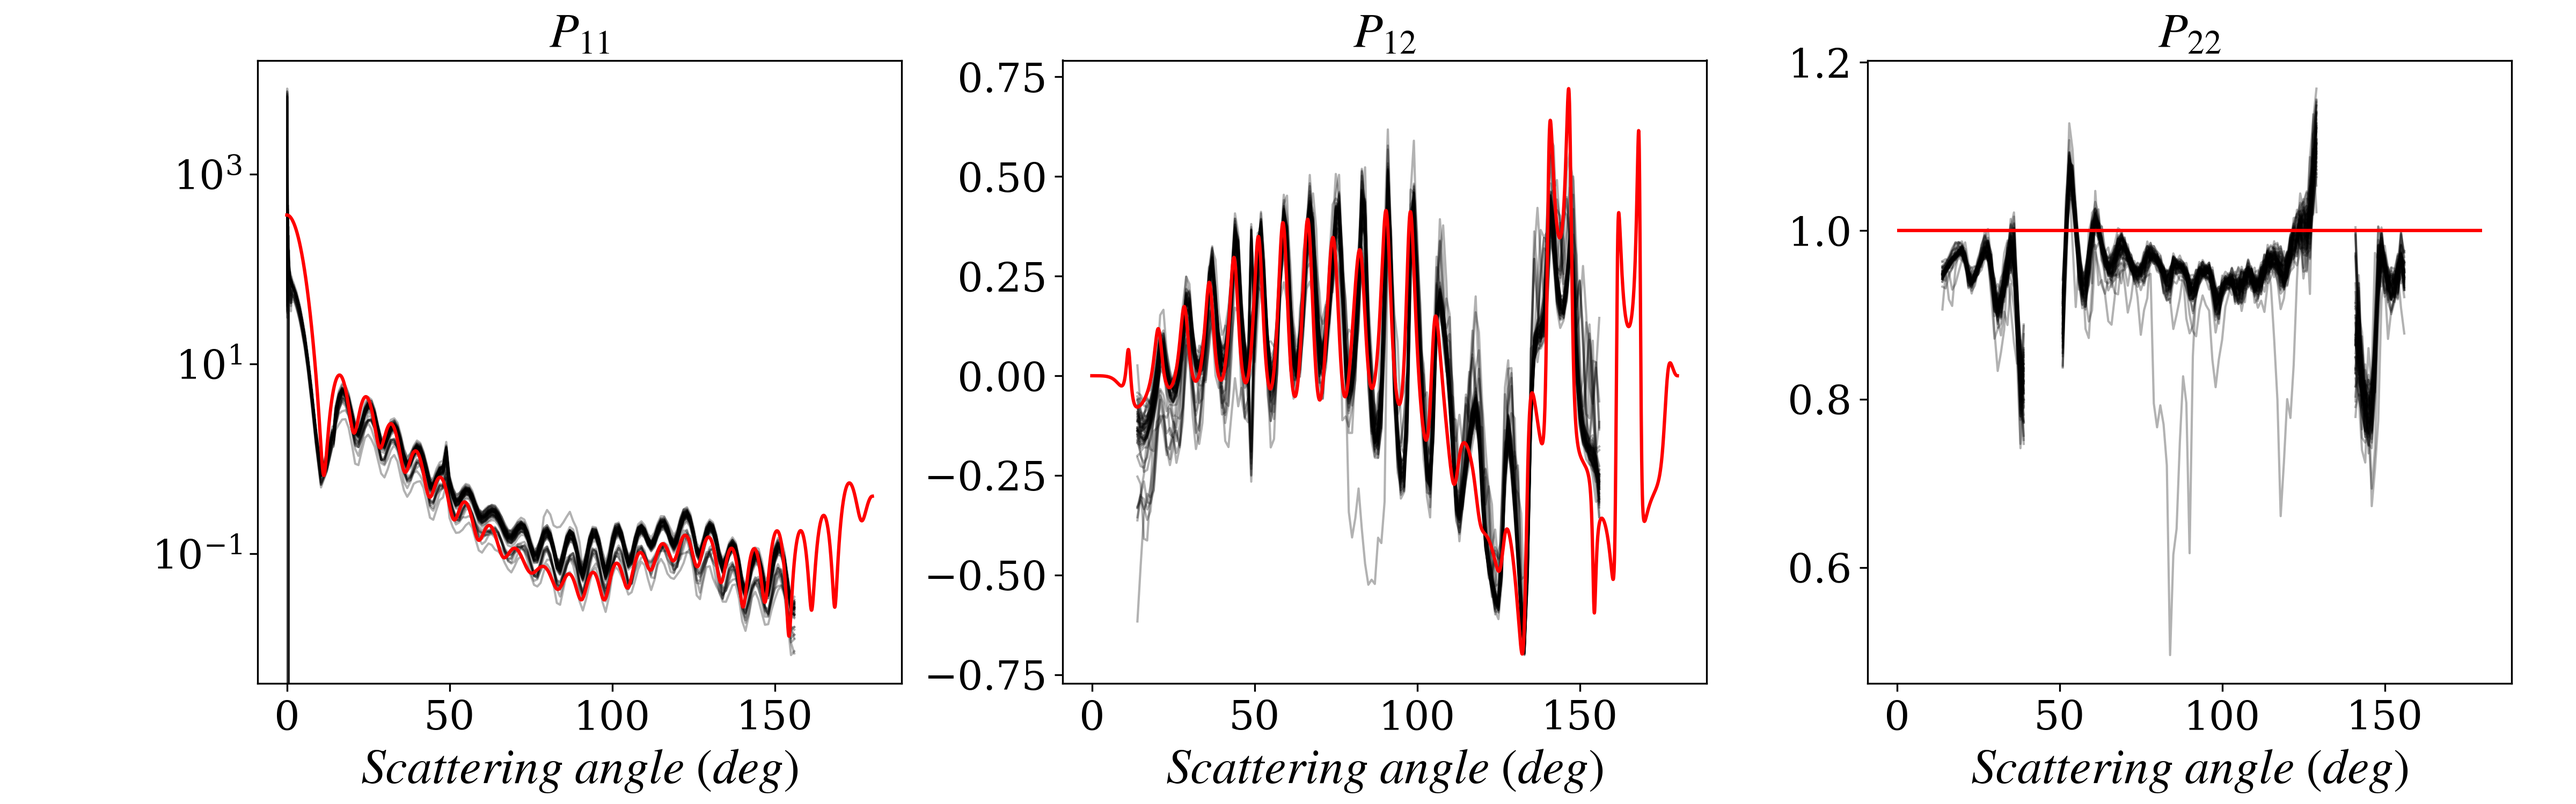
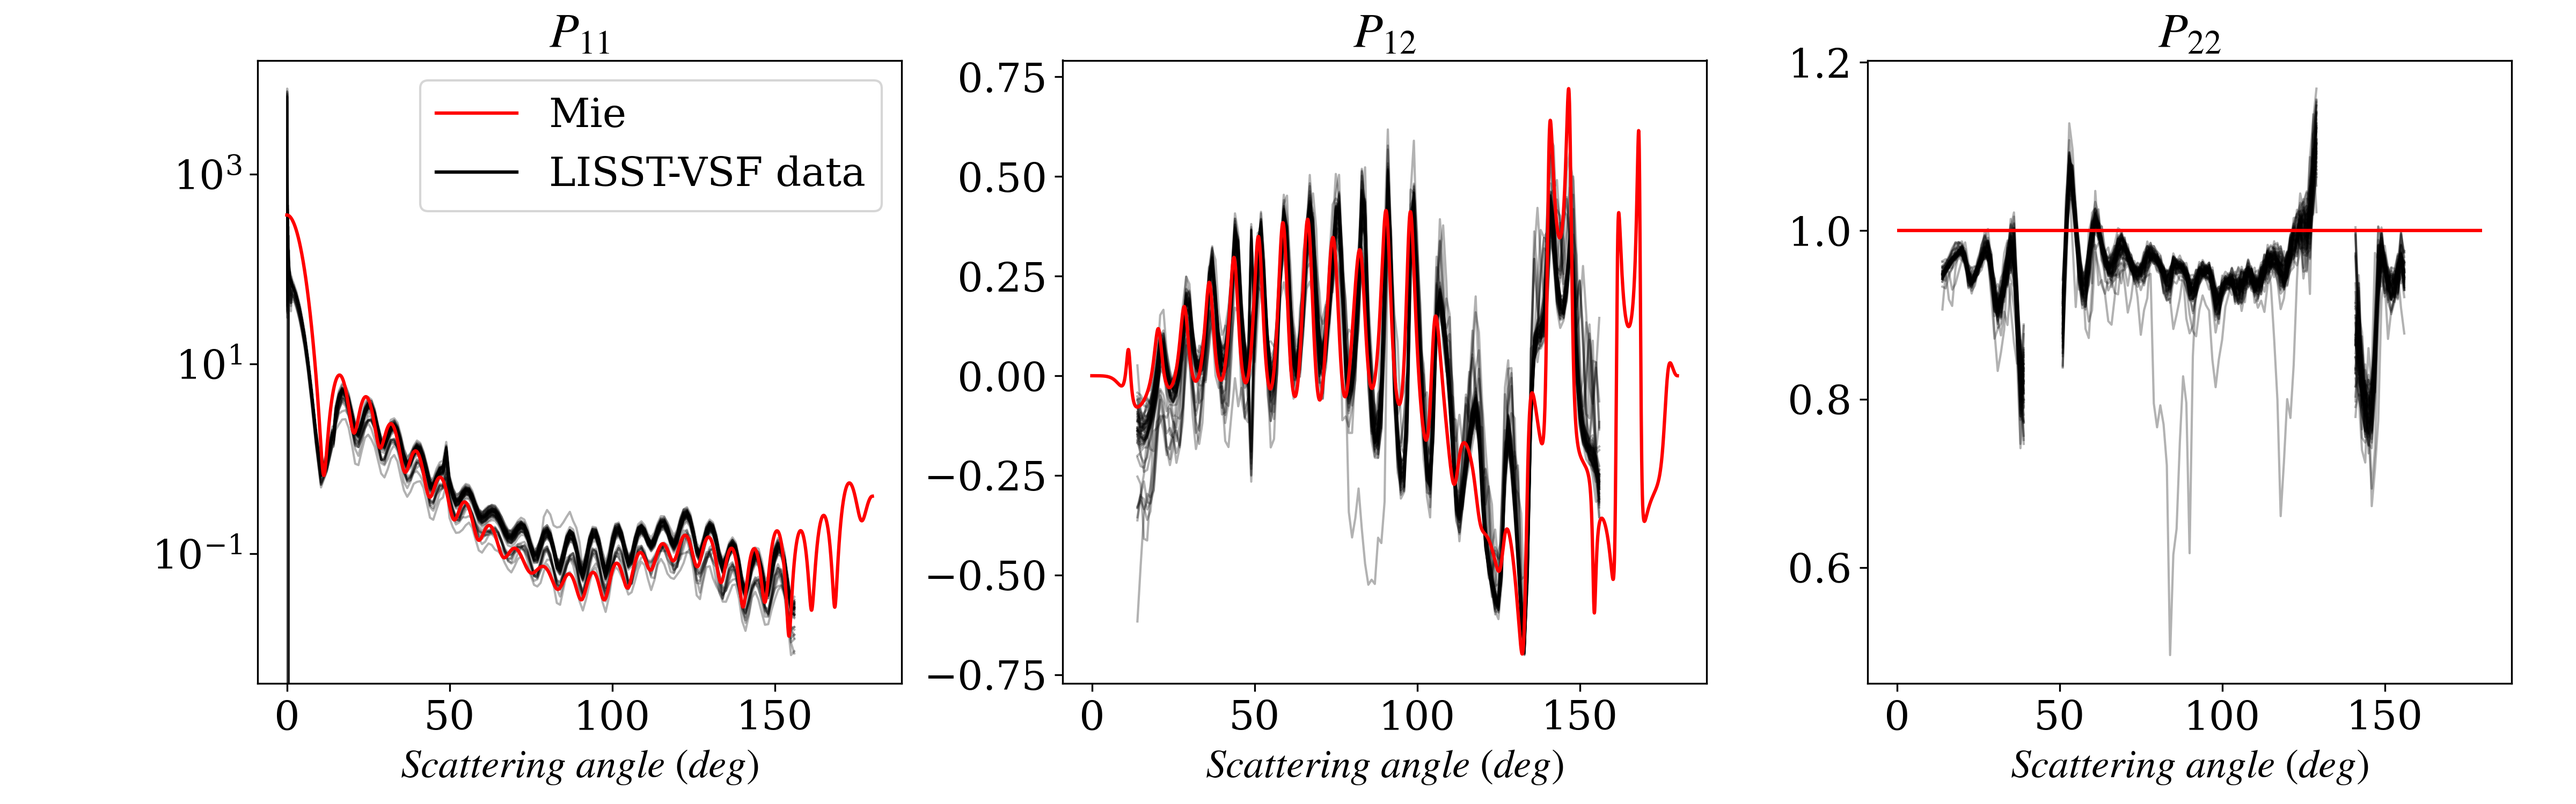
add Mie checking

diff --git a/post_processing/algae_processing.py b/post_processing/algae_processing.py
@@ -1,0 +1,141 @@
+import os
+import numpy as np
+from scipy.interpolate import interp1d
+
+import xarray as xr
+import datetime as dt
+import matplotlib.pyplot as plt
+from matplotlib.lines import Line2D
+
+rc = {"font.family": "serif",
+      "mathtext.fontset": "stix"}
+plt.rcParams.update(rc)
+plt.rcParams["font.serif"] = ["Times New Roman"] + plt.rcParams["font.serif"]
+
+plt.rcParams.update({'font.size': 18, 'axes.labelsize': 18})
+
+from pylisst.process import process
+from pylisst.driver import driver
+from pylisst.calibration import calib
+# personal package
+from mie_perso import psd, mie_multiprocess
+
+calfact = calib()
+
+mie = False
+dir = '/DATA/projet/gernez/hablab/lisst_vsf'
+
+file_ = 'V1101629.VSF'
+name = "PRY_C3"
+filez_ = 'Z1110820.VSF'
+
+#---------------------------------
+# open and process LISST-VSF data
+#---------------------------------
+file = os.path.join(dir, file_)
+filez = os.path.join(dir, filez_)
+scat = driver(file)
+scat.reader()
+zsc = driver(filez)
+zsc.reader()
+p = process(scat, zsc, calfact)
+p.full_process()
+
+
+if mie:
+    #---------------------------------
+    # get Mie simulations
+    #---------------------------------
+    pmie = mie_multiprocess.processor()
+    size_param = psd.size_param
+    psd = psd.psd()
+
+    # -------------------------------------
+    # Generate mueller matrices for a series
+    # of size parameters x = np.pi * diameter / wavelength (unitless)
+    # -------------------------------------
+    wl = 515
+    nMedium = 1.3199+6878/wl**2-1.132e9/wl**4+1.11e14/wl**6
+    wl_medium=wl/nMedium
+    npolystyrene = 1.60
+    m = npolystyrene / nMedium - 0.000j
+
+    theta = np.linspace(0, np.pi, 3600)
+    x = np.logspace(np.log10(1), 2, 1001)
+    ofile = 'data/mueller_mie_' + format(m,'1.3f') + '_t3600.nc'
+
+    if os.path.exists(ofile):
+        mueller = xr.open_dataset(ofile)
+    else:
+        mueller = pmie.ScatMat_mp(m, x, theta)
+        mueller.to_netcdf(ofile)
+
+    # -------------------------------------
+    # convert mueller matrices for a series
+    # of diameters for a given couple of
+    # wavelength (in vacuum) and refractive index (in medium)
+    # for a medium of refractive index nMedium
+    # -------------------------------------
+    theta = mueller.theta
+    ang = theta * 180. / np.pi
+    Ntheta = len(mueller.theta)
+
+    m = complex(mueller.nr, mueller.ni)
+
+
+    m_vacuum = m * nMedium
+    wl_medium = wl / nMedium
+
+    dpnm = mueller.x * wl_medium / np.pi
+    dp = dpnm / 1000
+
+    rn_med = 1.5
+    CV = 0.01
+    sig = rn_med * CV
+    rv_med = psd.rnmed2rvmed(rn_med, sig)
+
+    ndp = psd.lognorm(dp / 2, rn_med=rn_med, sigma=sig)
+    # ndp = modif_power_law(dp / 2, slope=-slope, rmin=rmin, rmax=rmax)
+    # convert to xarray
+    ndp = dp.copy(data=ndp)
+
+    # ndp = psd #[:-1]*np.diff(dp/2)
+    S11, S12, S33, S34 = np.zeros(Ntheta), np.zeros(Ntheta), np.zeros(Ntheta), np.zeros(Ntheta)
+
+    # aSDn = np.pi*((dp/2)**2)*ndp
+    aSDn = ndp
+    S11 = np.trapz(mueller.S11 * aSDn, dp, axis=0)
+    S12 = np.trapz(mueller.S12 * aSDn, dp, axis=0)/S11
+    S33 = np.trapz(mueller.S33 * aSDn, dp, axis=0)/S11
+    S34 = np.trapz(mueller.S34 * aSDn, dp, axis=0)/S11
+    norm = np.trapz(S11 * np.sin(theta), theta) / 2
+
+
+b = p
+
+fig, axs = plt.subplots(ncols=3, nrows=1, figsize=(16, 5), sharex=True)
+fig.subplots_adjust(bottom=0.15, top=0.925, left=0.1, right=0.975,
+                    hspace=0.1, wspace=0.25)
+axs = axs.ravel()
+b.P11.plot(hue='set', color='black', alpha=0.3, lw=1, add_legend=False, ax=axs[0])
+
+b.p12.plot(hue='set', color='black', alpha=0.3, lw=1, add_legend=False, ax=axs[1])
+b.p22.plot(hue='set', color='black', alpha=0.3, lw=1, add_legend=False, ax=axs[2])
+if mie:
+    axs[0].plot(ang,S11/norm,c='red',label='Mie')
+    axs[1].plot(ang,S12,c='red')
+    axs[2].hlines(1,0,180,colors='red')
+    handles, labels = axs[0].get_legend_handles_labels()
+    patch = Line2D([0],[0],color='black', label='LISST-VSF data')
+    handles.append(patch)
+    axs[0].legend(handles=handles, loc='upper right')
+
+axs[0].set_title('$P_{11}$')
+axs[1].set_title('$P_{12}$')
+axs[2].set_title('$P_{22}$')
+for i in range(3):
+    axs[i].set_xlabel('$Scattering\ angle\ (deg)$')
+axs[0].semilogy()
+
+
+plt.savefig(os.path.join("fig", name) + '_mueller_mat_mie_check.png', dpi=300)

diff --git a/beads/beads_processing.py b/beads/beads_processing.py
@@ -5,6 +5,8 @@ from scipy.interpolate import interp1d
 import xarray as xr
 import datetime as dt
 import matplotlib.pyplot as plt
+from matplotlib.lines import Line2D
+
 rc = {"font.family": "serif",
       "mathtext.fontset": "stix"}
 plt.rcParams.update(rc)
@@ -23,6 +25,20 @@ calfact = calib()
 
 dir = '/DATA/projet/gernez/hablab/lisst_vsf'
 file_ = 'V1111510.VSF'
+name = 'Beads_3mic'
+rn_med =1.5
+file_ = 'V1111544.VSF'
+name = 'Beads_1mic'
+rn_med = 0.5
+
+file_ = 'V1111613.VSF'
+name = 'Beads_dot7mic'
+rn_med = 0.702/2
+
+file_ = 'V1111644.VSF'
+name = 'Beads_dot3mic'
+rn_med = 0.303/2
+
 #file_ = 'V1101425.VSF'
 filez_ = 'Z1110820.VSF'
 
@@ -84,7 +100,6 @@ wl_medium = wl / nMedium
 dpnm = mueller.x * wl_medium / np.pi
 dp = dpnm / 1000
 
-rn_med = 1.5
 CV = 0.01
 sig = rn_med * CV
 rv_med = psd.rnmed2rvmed(rn_med, sig)
@@ -126,4 +141,9 @@ axs[2].set_title('$P_{22}$')
 for i in range(3):
     axs[i].set_xlabel('$Scattering\ angle\ (deg)$')
 axs[0].semilogy()
-plt.savefig(os.path.join("fig", file_) + '_mueller_mat_mie_check.png', dpi=300)
+handles, labels = axs[0].get_legend_handles_labels()
+patch = Line2D([0],[0],color='black', label='LISST-VSF data')
+handles.append(patch)
+axs[0].legend(handles=handles, loc='upper right')
+
+plt.savefig(os.path.join("fig", name) + '_mueller_mat_mie_check.png', dpi=300)
